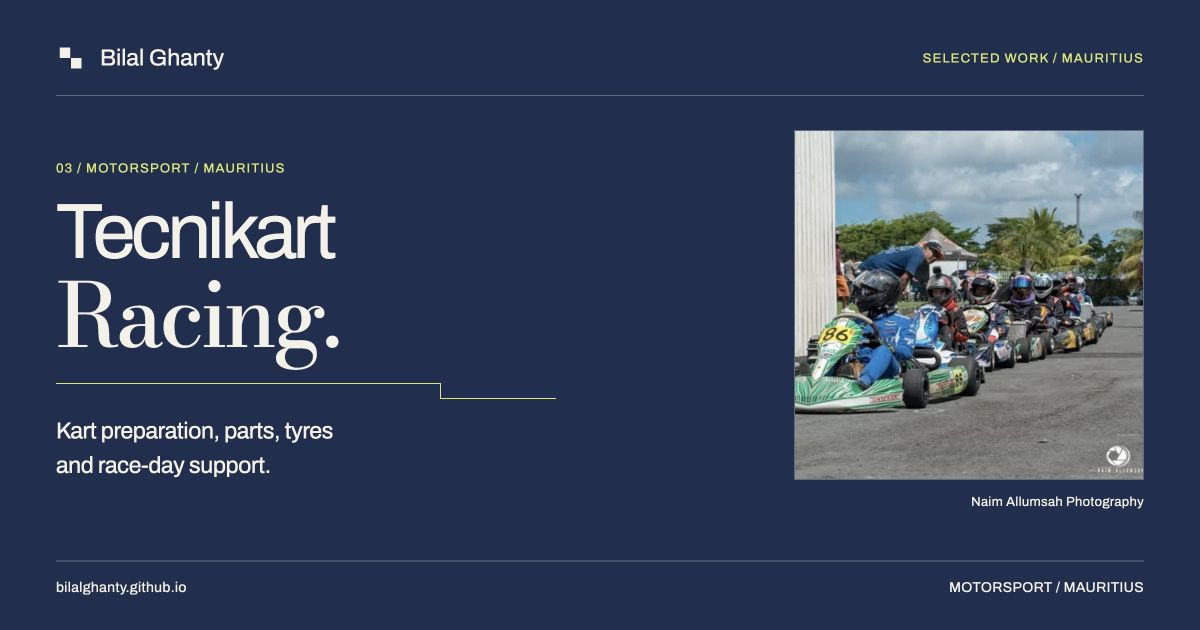
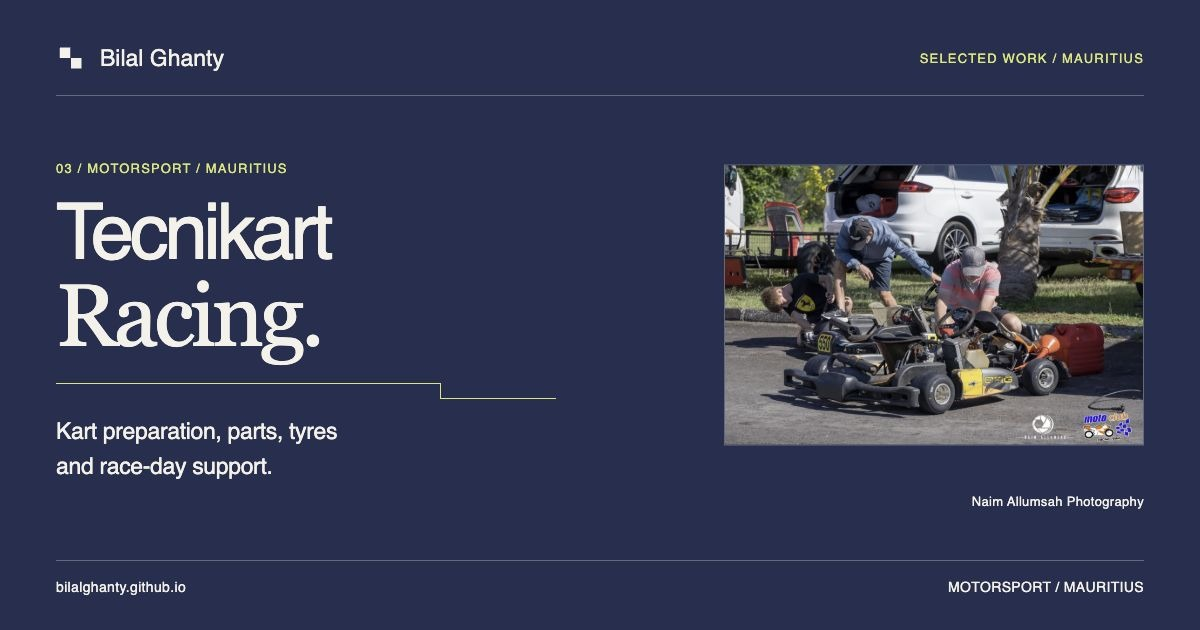
Refine J15 hero layout and sharing image

diff --git a/assets/tecnikart.css b/assets/tecnikart.css
@@ -73,6 +73,7 @@
 
 @media(max-width:700px){.tk-bill-photo{width:220px;margin-top:24px}}
 
-/* R41 is a small square source; preserve its full frame and keep its display restrained. */
-.tk-hero[data-asset-id="R41"]{width:100%;max-width:400px;justify-self:end}
-@media(max-width:700px){.tk-hero[data-asset-id="R41"]{width:90%;max-width:320px;margin-left:auto}}
+/* J15 stays uncropped: people, karts and the original watermark are part of the story. */
+.tk-hero[data-asset-id="J15"]{width:100%;max-width:580px;justify-self:end}
+.tk-hero picture{display:block}
+@media(max-width:700px){.tk-hero[data-asset-id="J15"]{width:100%;max-width:480px;margin-left:auto}}
